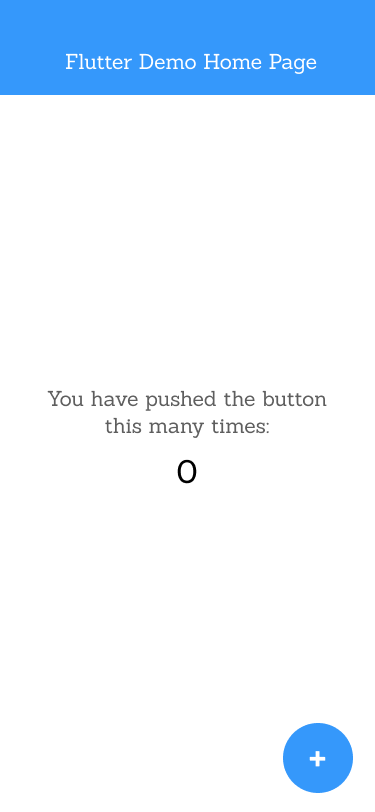
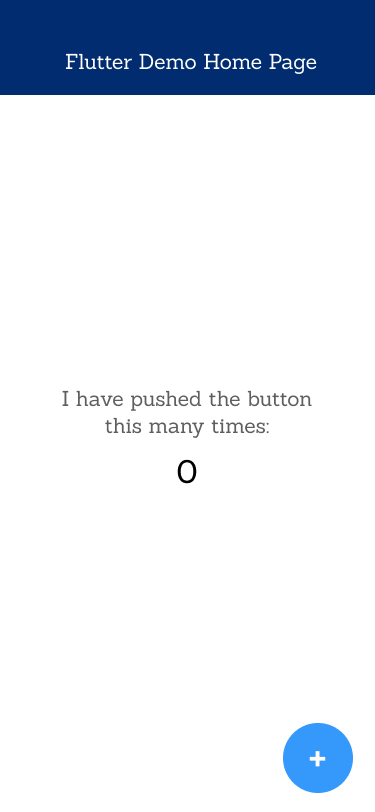
Auto-generated commit by Parabeac Cloud

Changed region(s): [[0.0, 0.0, 1.0, 0.1232], [0.1467, 0.4618, 0.8507, 0.5234]]

diff --git a/lib/views/page_1/my_app_screen.g.dart b/lib/views/page_1/my_app_screen.g.dart
@@ -124,7 +124,7 @@ class _MyAppScreen extends State<MyAppScreen> {
                   height: 95.0,
                   width: 286.0,
                   child: AutoSizeText(
-                    'You have pushed the button this many times:',
+                    'I have pushed the button this many times:',
                     style: TextStyle(
                       fontFamily: 'Sanchez',
                       fontSize: 21,
